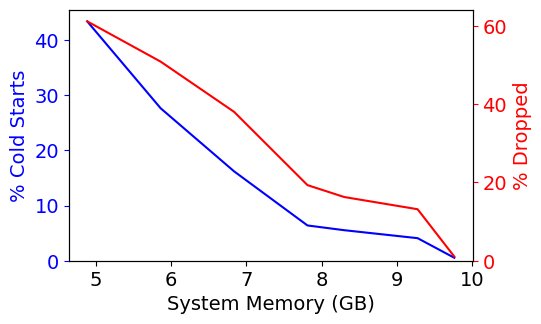
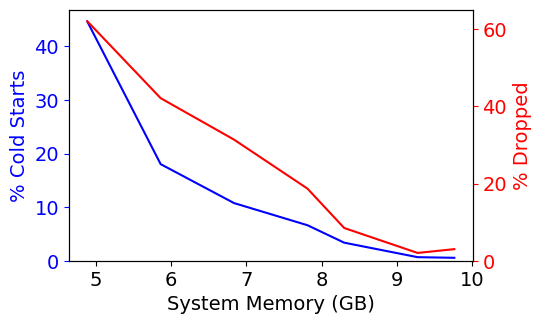
All policies implemented

diff --git a/code/sim/LambdaScheduler.py b/code/sim/LambdaScheduler.py
@@ -4,6 +4,7 @@ from collections import defaultdict
 from LambdaData import *
 from Container import *
 import os
+from heapq import heappush, heappop
 
 class LambdaScheduler:
 
@@ -31,7 +32,7 @@ class LambdaScheduler:
 
         # ---- Newly added data structures ----
         self.lru_cache = {}
-
+        self.priority_min_heap = []
 
         if self.eviction_policy == "RAND":
           # Function to be called pick containers to evict
@@ -60,6 +61,16 @@ class LambdaScheduler:
 
         elif self.eviction_policy == "LFUGROUP_MAXINITGROUP_CLOSEST":
             self.EvictionFunc = self.evict_lfu_group_maxinitgroup_closest
+
+        elif self.eviction_policy == "LFUGROUP_CLOSESTGROUP_MAXINIT":
+            self.EvictionFunc = self.evict_lfu_group_closestgroup_maxinit
+        
+        elif self.eviction_policy == "LFUGROUP_MAXINITGROUP_LARGEST":
+            self.EvictionFunc = self.evict_lfu_group_maxinitgroup_largest
+
+        elif self.eviction_policy == "DUAL_GREEDY_PRIORITY":
+            self.EvictionFunc = self.evict_dual_greedy_priority_based
+
         else:
           raise NotImplementedError("Unkonwn eviction policy: {}".format(self.eviction_policy))
 
@@ -263,7 +274,7 @@ class LambdaScheduler:
 
         # Note: Sorting in ascending invoke_freq here, least invoked is at the start
         available.sort(key=lambda c: c.invoke_freq)
-        group_size = 5
+        group_size = int(0.1 * len(available)) if len(available) > 40 else 4
 
         while to_free > 0 and len(available) > 0:
             available_group = available[:group_size]
@@ -282,7 +293,7 @@ class LambdaScheduler:
 
         # Note: Sorting in ascending invoke_freq here, least invoked is at the start
         available.sort(key=lambda c: c.invoke_freq)
-        group_size = 5
+        group_size = int(0.1 * len(available)) if len(available) > 40 else 4
 
         while to_free > 0 and len(available) > 0:
             available_group = available[:group_size]
@@ -303,16 +314,17 @@ class LambdaScheduler:
 
         # Note: Sorting in ascending invoke_freq here, least invoked is at the start
         available.sort(key=lambda c: c.invoke_freq)
-        group_size = 5
+
+        group_size = int(0.1 * len(available)) if len(available) > 40 else 4
 
         while to_free > 0 and len(available) > 0:
-            available_group = available[:group_size]
+            lfu_group = available[:group_size]
 
-            # DESCENDING sort by initialization time (environment setup time)
-            available_group.sort(key=lambda c: c.metadata.run_time - c.metadata.warm_time)
+            # ASCENDING sort by initialization time (environment setup time)
+            lfu_group.sort(key=lambda c: c.metadata.run_time - c.metadata.warm_time)
 
             # choose container with least init/setup time as victim
-            victim = available_group.pop()
+            victim = lfu_group[0]
             
             available.remove(victim)
             eviction_list.append(victim)
@@ -331,17 +343,17 @@ class LambdaScheduler:
             - In the sorted maxinit_group, perform Binary Search to find closest mem_size container.
             - This container is chosen as the victim.
         """
-
         eviction_list = []
         available = [c for c in self.ContainerPool if c not in self.RunningC]
 
         # Note: Sorting in ascending invoke_freq here, least invoked is at the start
         available.sort(key=lambda c: c.invoke_freq)
-        lfu_group_size = 10
-        maxinit_group_size = 5
+
+        lfu_group_size = int(0.1 * len(available)) if len(available) > 40 else 4
+        maxinit_group_size = int(0.05 * len(available)) if len(available) > 40 else 2
 
         while to_free > 0 and len(available) > 0:
-            available_group = available[:lfu_group_size]
+            lfu_group = available[:lfu_group_size]
 
             # ASCENDING sort by initialization time
             lfu_group.sort(key=lambda c: c.metadata.run_time - c.metadata.warm_time)
@@ -353,8 +365,8 @@ class LambdaScheduler:
 
             # Binary search for the closest sized container from this sorted sub-group
             victim_index = self.binary_search_closest(maxinit_group, to_free)
-
             victim = maxinit_group[victim_index]
+            # victim = maxinit_group[-1] # get largest container
 
             available.remove(victim)
             eviction_list.append(victim)
@@ -363,8 +375,89 @@ class LambdaScheduler:
         return eviction_list
 
 
-            
+    def find_closest_group(self, arr, key, group_size):
+        if group_size >= len(arr):
+            return arr
+        
+        victim_group_start = self.binary_search_closest(arr, key)
 
+        victim_group_start = min(victim_group_start, len(arr) - group_size)
+
+        return arr[victim_group_start:]
+        
+
+    def evict_lfu_group_closestgroup_maxinit(self, to_free):
+        """
+        """
+        eviction_list = []
+        available = [c for c in self.ContainerPool if c not in self.RunningC]
+
+        # Note: Sorting in ascending invoke_freq here, least invoked is at the start
+        available.sort(key=lambda c: c.invoke_freq)
+        lfu_group_size = int(0.1 * len(available)) if len(available) > 60 else 6
+        closest_group_size = int(0.05 * len(available)) if len(available) > 60 else 3
+        while to_free > 0 and len(available) > 0:
+            lfu_group = available[:lfu_group_size]
+
+            # ASCENDING sort by mem_size
+            lfu_group.sort(key=lambda c: c.metadata.mem_size)
+
+            closest_group = self.find_closest_group(lfu_group, to_free, closest_group_size)
+
+            # ASCENDING sort by initialization time
+            closest_group.sort(key=lambda c: c.metadata.run_time - c.metadata.warm_time)
+
+            # Choose container with least init time from closest group as victim
+            victim = closest_group[0]
+
+            available.remove(victim)
+            eviction_list.append(victim)
+            to_free -= victim.metadata.mem_size
+        
+        return eviction_list    
+
+    def evict_lfu_group_maxinitgroup_largest(self, to_free):
+        eviction_list = []
+        available = [c for c in self.ContainerPool if c not in self.RunningC]
+
+        # Note: Sorting in ascending invoke_freq here, least invoked is at the start
+        available.sort(key=lambda c: c.invoke_freq)
+
+        lfu_group_size = int(0.1 * len(available)) if len(available) > 40 else 4
+        maxinit_group_size = int(0.05 * len(available)) if len(available) > 40 else 2
+
+        while to_free > 0 and len(available) > 0:
+            lfu_group = available[:lfu_group_size]
+
+            # ASCENDING sort by initialization time
+            lfu_group.sort(key=lambda c: c.metadata.run_time - c.metadata.warm_time)
+
+            maxinit_group = lfu_group[:maxinit_group_size]
+
+            # ASCENDING sort by mem_size
+            maxinit_group.sort(key=lambda c: c.metadata.mem_size)
+
+            victim = maxinit_group[-1] # get largest container
+
+            available.remove(victim)
+            eviction_list.append(victim)
+            to_free -= victim.metadata.mem_size
+        
+        return eviction_list
+
+    def evict_dual_greedy_priority_based(self, to_free):
+        eviction_list = []
+        available = [c for c in self.ContainerPool if c not in self.RunningC]
+
+        # sort descending
+        available.sort(key=lambda c: c.priority, reverse=True)
+
+        # containers_to_put_back = []
+        while to_free > 0 and len(available) > 0:
+            victim = available.pop()
+            eviction_list.append(victim)
+            to_free -= victim.metadata.mem_size
+        return eviction_list
 
     #############################################################
 
@@ -429,6 +522,8 @@ class LambdaScheduler:
         self.wall_time = t
         self.cleanup_finished()
 
+        # print("container pool len:", len(self.ContainerPool))
+
         c = self.find_container(d)
         if c is None:
             #Launch a new container since we didnt find one for the metadata ...
@@ -449,13 +544,17 @@ class LambdaScheduler:
 
             if self.eviction_policy == "LRU":
                 # if hit, pop first to "move_to_front" later
-                self.lru_cache.pop(c)
+                self.lru_cache.pop(c) # lru_cache is a dict, dict.pop() is like list.remove()
+
 
         if self.eviction_policy == "LRU":      
             self.lru_cache[c] = None
 
-        if self.eviction_policy == "LFU_CLASSIC":
-            c.invoke_freq += 1
+        c.invoke_freq += 1
+
+        # For the dual-greedy approach given in the FaaSCache paper (cited in the report)
+        if self.eviction_policy == "DUAL_GREEDY_PRIORITY":
+            c.priority = self.wall_time + (c.init_time * c.invoke_freq / c.metadata.mem_size)
 
         self.FunctionHistoryList.append((d,t))
         self.AssertMemory()

diff --git a/code/sim/Container.py b/code/sim/Container.py
@@ -7,6 +7,8 @@ class Container:
     def __init__(self, lamdata: LambdaData):
         self.metadata = lamdata
         self.invoke_freq = 1
+        self.priority = 0
+        self.init_time = lamdata.run_time - lamdata.warm_time
         
     def prewarm(self):
         self.state = "WARM"
